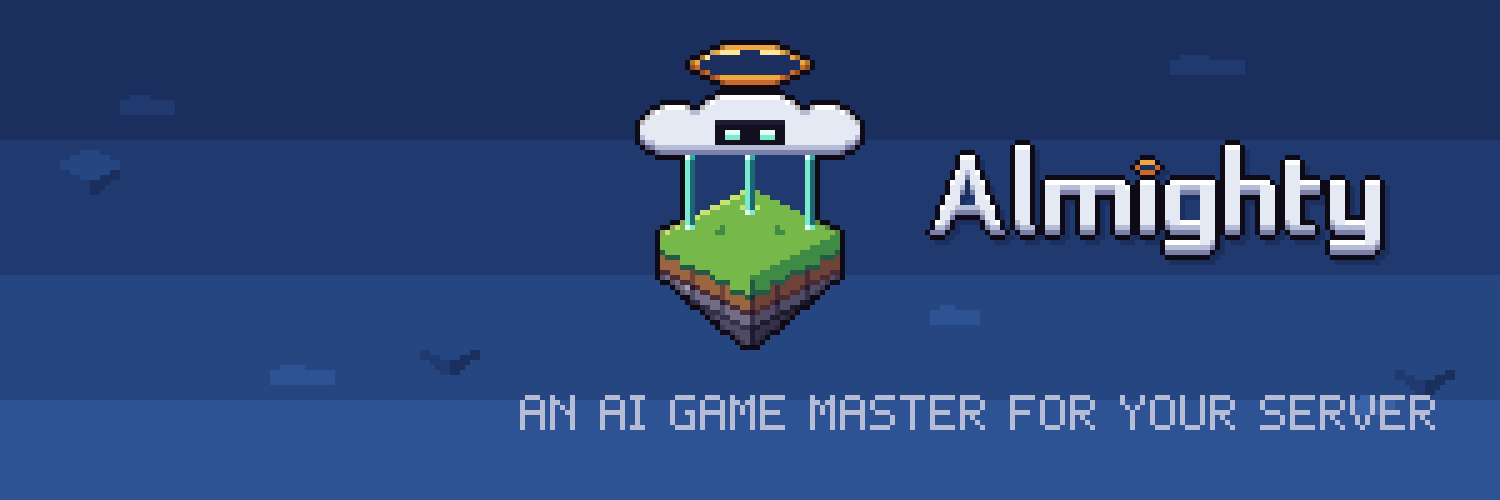
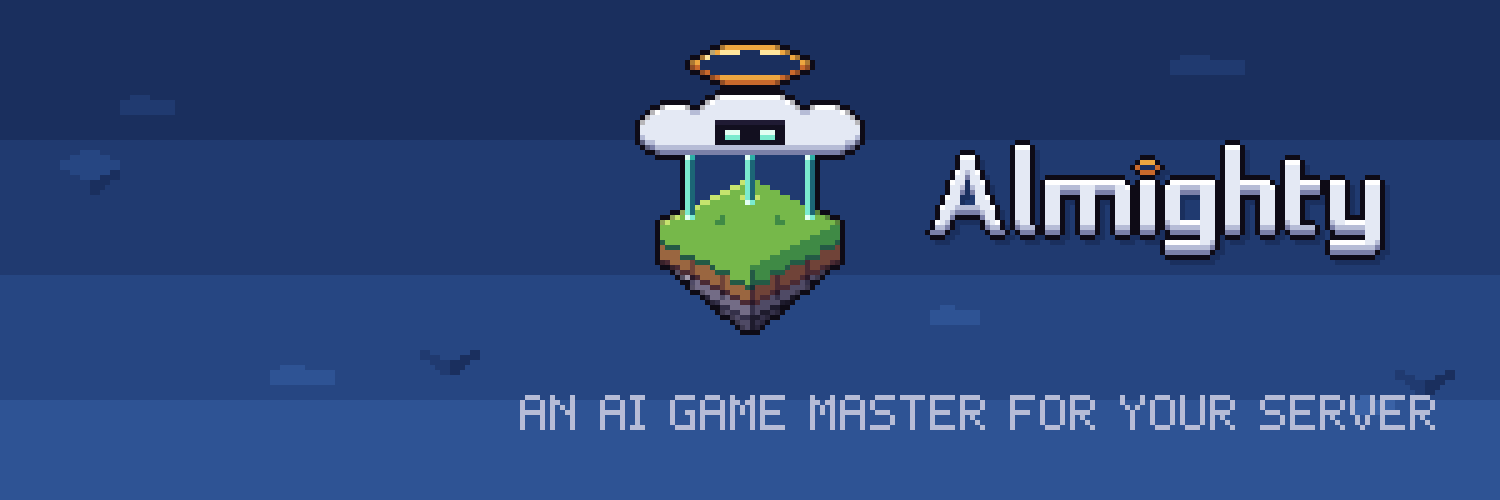
Brand: 3 px of top margin above the halo in square formats; regenerate the package
Claude-Session: https://claude.ai/code/session_01Tdreeq8tiDWG3ZQBqAgUrX

Changed region(s): [[0.4293, 0.36, 0.5827, 0.72]]

diff --git a/scripts/brand/final_mark.py b/scripts/brand/final_mark.py
@@ -127,7 +127,7 @@ def draw_halo(m):
 
 
 # ---------------------------------------------------------------- island (symmetric 2:1 iso)
-def draw_island(m, k=9, ty=30, lip=2, soil=3, rock=3):
+def draw_island(m, k=9, ty=28, lip=2, soil=3, rock=2):
     """Top: 4k x 2k rhombus centred on the seam. Sides: turf lip, soil, rock, then a keel that tapers three
     pixels per row on each face, so both faces end at the centre."""
     cx = 32
@@ -246,5 +246,5 @@ def icon64():
     for (x, y, w) in [(2, 26, 7), (55, 44, 7)]:
         t.rect(x, y, x + w, y + 1, P('sky', 3)); t.rect(x + 2, y - 1, x + 4, y - 1, P('sky', 3))
     m = mark_layer()
-    t.paste(m, 0, 0)
+    t.paste(m, 0, 3)          # 3 px of sky above the halo; the mark spans rows 3-61
     return t

diff --git a/scripts/brand/final_kit.py b/scripts/brand/final_kit.py
@@ -120,7 +120,7 @@ def build():
     a = sky(80, 80, clouds=False)
     for (x, y, w) in [(3, 36, 8), (68, 58, 8)]:
         a.rect(x, y, x + w, y + 1, P('sky', 3))
-    a.paste(mark_layer(), 8, 9)
+    a.paste(mark_layer(), 8, 10)
     save(up(a, 5), f'{d}/social/avatar-400.png', (400, 400))
     # ---- X header: 300 x 100 x5; the profile picture covers the lower left, so the lockup sits high and right
     x = scene(300, 100, [(0.06, 0.30, 3, 0), (0.30, 0.66, 3, 0), (0.95, 0.70, 3, 0)])
